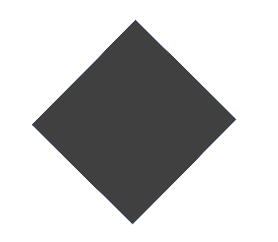
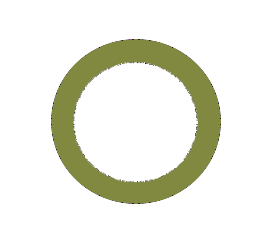
Now datasets are color coded.

diff --git a/NetExplorer/static/js/netexplorer-cytoscape-definition.js b/NetExplorer/static/js/netexplorer-cytoscape-definition.js
@@ -14,11 +14,12 @@ var stylesheet = cytoscape.stylesheet()
             "color": "#404040",
             "border-color": "data(colorNODE)",
             "border-width": 2,
-            "min-zoomed-font-size": 6,
+            "min-zoomed-font-size": 4,
         })
     .selector('.important')
         .css({
-            'border-color': '#6785d0',
+            "text-outline-color": "#404040",
+            "color": "#FFFFFF",
         })
     .selector('edge')
         .css({
@@ -52,49 +53,68 @@ var stylesheet = cytoscape.stylesheet()
             'width': 'mapData(degree, 1, 200, 10, 30)',
             'height': 'mapData(degree, 1, 200, 10, 30)',
         })
+    .selector('node[database = "Smest"]')
+        .css({
+            'shape': 'circle',
+            'border-color': "#bb4ab7",
+        })
     .selector('node[database = "Cthulhu"]')
         .css({
             'shape': 'circle',
+            'border-color': "#49b9d1",
         })
     .selector('node[database = "Consolidated"]')
         .css({
-            'shape': 'triangle',
+            'shape': 'circle',
+            'border-color': "#74be47",
         })
     .selector('node[database = "Dresden"]')
         .css({
-            'shape': 'pentagon',
+            'shape': 'circle',
+            'border-color': "#ca552d",
+
         })
     .selector('node[database = "Graveley"]')
         .css({
-            'shape': 'vee',
+            'shape': 'circle',
+            'border-color': "#4b8c38",
         })
     .selector('node[database = "Illuminaplus"]')
         .css({
-            'shape': 'rhomboid',
+            'shape': 'circle',
+            'border-color': "#b175e3",
         })
     .selector('node[database = "Newmark"]')
         .css({
-            'shape': 'hexagon',
+            'shape': 'circle',
+            'border-color': "#bcb042",
         })
     .selector('node[database = "Smed454"]')
         .css({
-            'shape': 'rectangle',
+            'shape': 'triangle',
+            'border-color': "#de9640",
+
         })
     .selector('node[database = "Adamidi"]')
         .css({
-            'shape': 'roundrectangle',
+            'shape': 'circle',
+            'border-color': "#648ad0"
+
         })
     .selector('node[database = "Blythe"]')
         .css({
-            'shape': 'heptagon',
+            'shape': 'circle',
+            'border-color': "#d34057"
         })
     .selector('node[database = "Pearson"]')
         .css({
-            'shape': 'octagon',
+            'shape': 'circle',
+            'border-color': "#5fc38f"
         })
     .selector('node[database = "Gbrna"]')
         .css({
-            'shape': 'diamond',
+            'shape': 'circle',
+            'border-color': "#818941"
         })
     .selector('.highlighted')
         .css({
@@ -111,7 +131,13 @@ var stylesheet = cytoscape.stylesheet()
     .selector('.human-label')
         .css({
             'content': 'data(homolog)',
-            'color': '#6785D0'
+            'color': '#6785D0',
+        })
+    .selector('.important.human-label')
+        .css({
+            'content': 'data(homolog)',
+            'text-outline-color': '#6785D0',
+            'color': '#ffffff',
 
         });
 

diff --git a/NetExplorer/templates/NetExplorer/smesgene_card.html b/NetExplorer/templates/NetExplorer/smesgene_card.html
@@ -21,6 +21,29 @@
         <h3><span class="bg-official">Gene Name:  <b>{{node.name}}</b></span></h3>
     {% endif %}
 
+    {% if best_transcript.homolog.human.summary and best_transcript.homolog.human.summary != "NA" %}
+        <h2><span class="glyphicon glyphicon-tag"></span> Summary</h2>
+        <hr class="h2-sep">
+        <p>{{ best_transcript.homolog.human.summary }}</p>
+        <div class="pull-right">
+            <i>Summary for 
+                
+                    <a
+                    class="card-link"
+                    current="{{ node.symbol|urlencode}}"
+                    currentDB="{{ node.database }}"
+                    target="{{ best_transcript.homolog.human.symbol }}"
+                    targetDB="{{ best_transcript.homolog.human.database }}">
+                        <span class="human-color">
+                            Human {{ best_transcript.homolog.human.symbol }}
+                        </span> 
+                    </a>
+                    
+                {{ best_transcript.homolog.human.summary_source }}
+            </i>
+        </div>
+    {% endif %}
+
     <h2><span class="glyphicon glyphicon-tag"></span> Genomic region sequence</h2>
     <hr class="h2-sep">
     <a href="{% url 'get_fasta' %}?genesymbol={{ node.symbol|urlencode }}&database={{ node.database }}&type=sequence">
@@ -43,7 +66,7 @@
     <h2><span class="glyphicon glyphicon-tag"></span> Transcripts</h2>
     <hr class="h2-sep">
     
-        <table class="table table-hover transcripts-table">
+        <table id="transcripts-table" class="table table-hover transcripts-table">
             <thead>
                 <tr>
                     <th>Database</th>
@@ -225,8 +248,10 @@
     $(document).ready(function(){
             $.fn.dataTable.ext.errMode = 'throw';
             $('#int-table').DataTable({
-                "order": [[ 0, 2, "desc" ]]
+                "order": [[ 1, "desc" ]]
             });
+
+            $("#transcripts-table").DataTable();
         });
 </script>
 

diff --git a/NetExplorer/static/js/planexp.js b/NetExplorer/static/js/planexp.js
@@ -155,11 +155,27 @@ var PlanExp = (function() {
      */
     getDatasets = function(expName, datasetSelect) {
         datasetRow = function(datasetName) {
-            return "<option class='dataset-option' value='" + 
-                    datasetName + 
-                    "'>" + 
-                    datasetName + 
-                    "</option>";
+            //<option data-content="<img class=" legend-db'="" src="/static/Images/legend-Adamidi.png">Adamidi' value='Adamidi'</option>
+
+
+            //<option data-content="<img class='legend-db' src='{% static 'Images/' %}legend-{{ db.name }}.png'>{{ db.name }}" value="{{ db.name }}">{{ db.name }}</option>
+            return "<option data-content='<img class=\"" +
+                    "legend-db\" src=\"" +
+                    window.ROOT + 
+                    "/static/Images/legend-" + 
+                    datasetName +
+                    ".png\">" +
+                    datasetName +
+                    "'" +
+                    " value='" +
+                    datasetName +
+                    "'" +
+                    "</option>"; 
+            //return "<option class='dataset-option' value='" + 
+            //        datasetName + 
+            //        "'>" + 
+            //        datasetName + 
+            //        "</option>";
         }
 
         $.ajax({

diff --git a/NetExplorer/templates/NetExplorer/gene_search.html b/NetExplorer/templates/NetExplorer/gene_search.html
@@ -35,12 +35,12 @@
                          type="text" class="form-control" 
                          name="genesymbol" placeholder="Enter Symbol(s)">
 
-                        <select name="database" class="selectpicker" title="Select Database" data-size="5">
+                        <select id="genesearch-database" name="database" class="selectpicker" title="Select Database" data-size="8">
                             <option data-content="<span class='badge badge-success human-select'>Human</span>" value="Human">Human</option>
                             <option data-content="<span class='badge badge-success gene-select'>Planarian Gene</span>" value="Smesgene">Planarian Gene</option>
                             <option data-divider="true"></option>
                             {% for db in databases %}
-                                <option value="{{ db.name }}">{{ db.name }}</option>
+                                <option data-content="<img class='legend-db' src='{% static 'Images/' %}legend-{{ db.name }}.png'>{{ db.name }}" value="{{ db.name }}">{{ db.name }}</option>
                             {% endfor %}
                         </select>
                         <button type="submit" value=" Send" class="btn btn-info" id="submit">Search</button>

diff --git a/NetExplorer/templates/NetExplorer/netexplorer.html b/NetExplorer/templates/NetExplorer/netexplorer.html
@@ -315,7 +315,7 @@
                             <select name="database" class="selectpicker" data-width="100%">
                                 <option value="" selected disabled>Select Database</option>
                                 {% for db in databases %}
-                                    <option value="{{ db.name }}">{{ db.name }}</option>
+                                    <option data-content="<img class='legend-db' src='{% static 'Images/' %}legend-{{ db.name }}.png'>{{ db.name }}" value="{{ db.name }}">{{ db.name }}</option>
                                 {% endfor %}
                             </select>
                             <br>

diff --git a/NetExplorer/templates/NetExplorer/pathway_finder.html b/NetExplorer/templates/NetExplorer/pathway_finder.html
@@ -240,7 +240,7 @@
                 <img class="pfind-form-icon" src="{% static 'Images/database-icon.png' %}"/>
                 <select name="database" class="selectpicker" title="Select Database">
                     {% for db in databases %}
-                        <option value="{{ db.name }}">{{ db.name }}</option>
+                        <option data-content="<img class='legend-db' src='{% static 'Images/' %}legend-{{ db.name }}.png'>{{ db.name }}" value="{{ db.name }}">{{ db.name }}</option>
                     {% endfor %}
                 </select>
 

diff --git a/NetExplorer/static/css/style.css b/NetExplorer/static/css/style.css
@@ -344,8 +344,12 @@ h1, h2, h3, h4, h5, h6 {
 
 #genesearch-genesymbol {
     width: 300px;
+    height: 41px;
 }
 
+.genesearch-panel .btn { height: 41px;}
+
+#select-experiment-div .btn { height: 41px;}
 #genesearch-form {
     margin-top: 3%;
 }
@@ -2186,6 +2190,7 @@ kbd {
 }
 
 .human-select { background-color: #6785d0 !important; }
+.human-color {color: #6785d0; }
 .gene-select { background-color: #c45ca2 !important; }
 .jbrowser-subtitle { float:right; }
 

diff --git a/NetExplorer/templates/NetExplorer/human_card.html b/NetExplorer/templates/NetExplorer/human_card.html
@@ -18,7 +18,7 @@
         
     </div>
     
-    {% if node.summary != "NA" %}
+    {% if node.summary and node.summary != "NA" %}
     <h2><span class="glyphicon glyphicon-tag"></span> Summary</h2>
     <hr class="h2-sep">
     <p>{{ node.summary }}</p>

diff --git a/NetExplorer/models/neo4j_models.py b/NetExplorer/models/neo4j_models.py
@@ -669,7 +669,8 @@ class PlanarianContig(Node):
         if self.degree is not None:
             element['data']['degree']   = self.degree
         if self.important:
-            element['data']['colorNODE'] = "#6785d0"
+            element['data']['colorNODE'] = "#404040"
+            element['classes'] = 'important'
         else:
             element['data']['colorNODE'] = "#404040"
         return element
@@ -1392,7 +1393,7 @@ class PlanarianGene(Node):
     Class for PlanarianGenes (genes from Planmine 3.0 gene annotation)
     """
     smesgene_regexp = r'SMESG\d+'
-    preferred_database = "Dresden"
+    preferred_database = "Smest"
     allowed_databases = set(["Smesgene"])
 
     def __init__(self, symbol, database, 
@@ -1495,6 +1496,7 @@ class PlanarianGene(Node):
             query = neoquery.SMESGENE_GET_ALL_CONTIGS_QUERY % (self.symbol)
         else:
             query = neoquery.SMESGENE_GET_CONTIGS_QUERY % (database, self.symbol)
+        print(query)
         results = GRAPH.run(query)
         results = results.data()
         prednodes = list()

diff --git a/NetExplorer/views/get_card.py b/NetExplorer/views/get_card.py
@@ -22,6 +22,8 @@ def get_card(request, symbol=None, database=None):
             best_contig = card_node.get_best_transcript()
             best_contig.get_homolog()
             best_contig.get_neighbours()
+            if best_contig.homolog:
+                best_contig.homolog.human.get_summary()
             nodes, edges = best_contig.get_graphelements()
             graph = GraphCytoscape()
             graph.add_elements(nodes)

diff --git a/NetExplorer/models/common.py b/NetExplorer/models/common.py
@@ -22,6 +22,7 @@ GRAPH     = Graph("http://127.0.0.1:7474/db/data/")
 DATABASES = set([
     "Dresden",
     "Consolidated",
+    "Smest",
     #"Newmark",
     "Graveley",
     "Illuminaplus",
@@ -37,6 +38,7 @@ ALL_DATABASES = set([
     "Consolidated",
     #"Newmark",
     "Graveley",
+    "Smest",
     "Illuminaplus",
     #"Smed454",
     "Adamidi",
